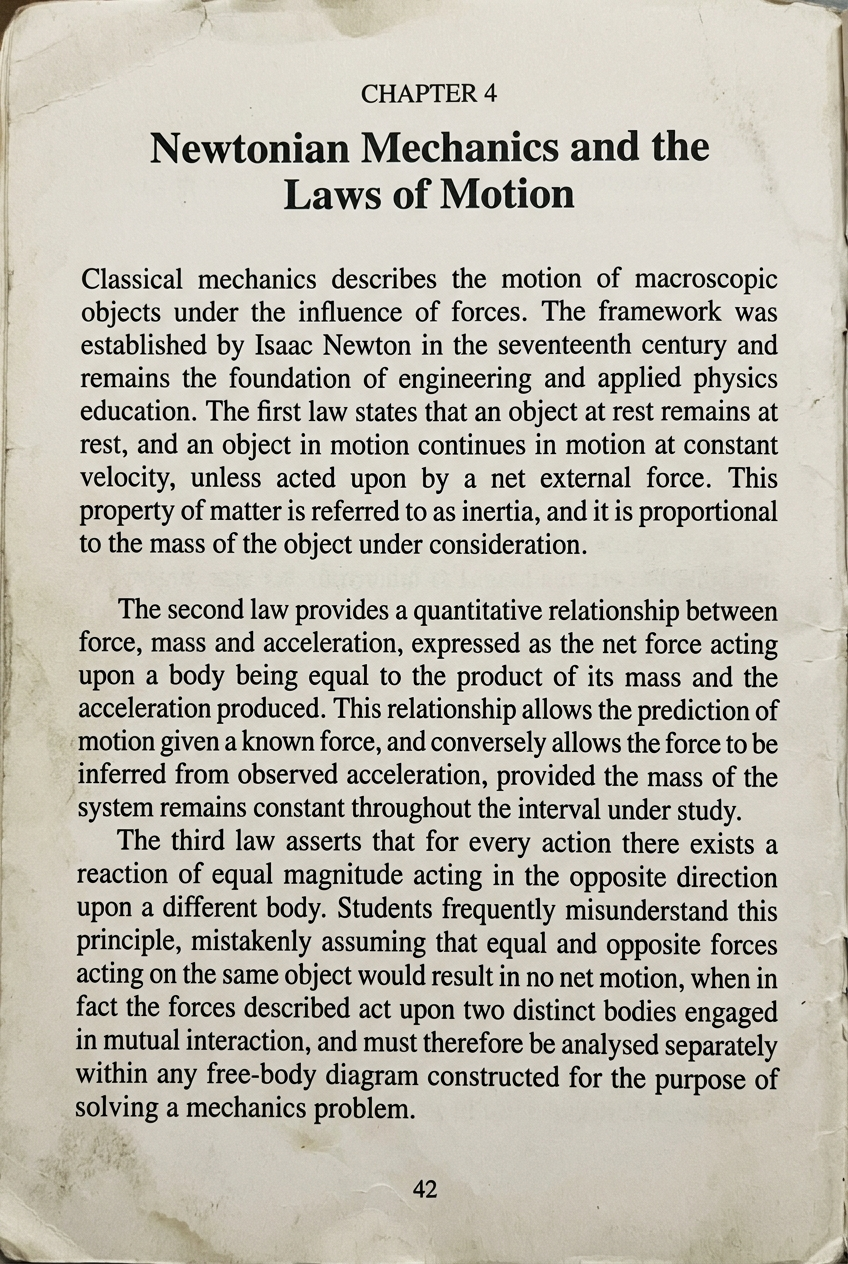
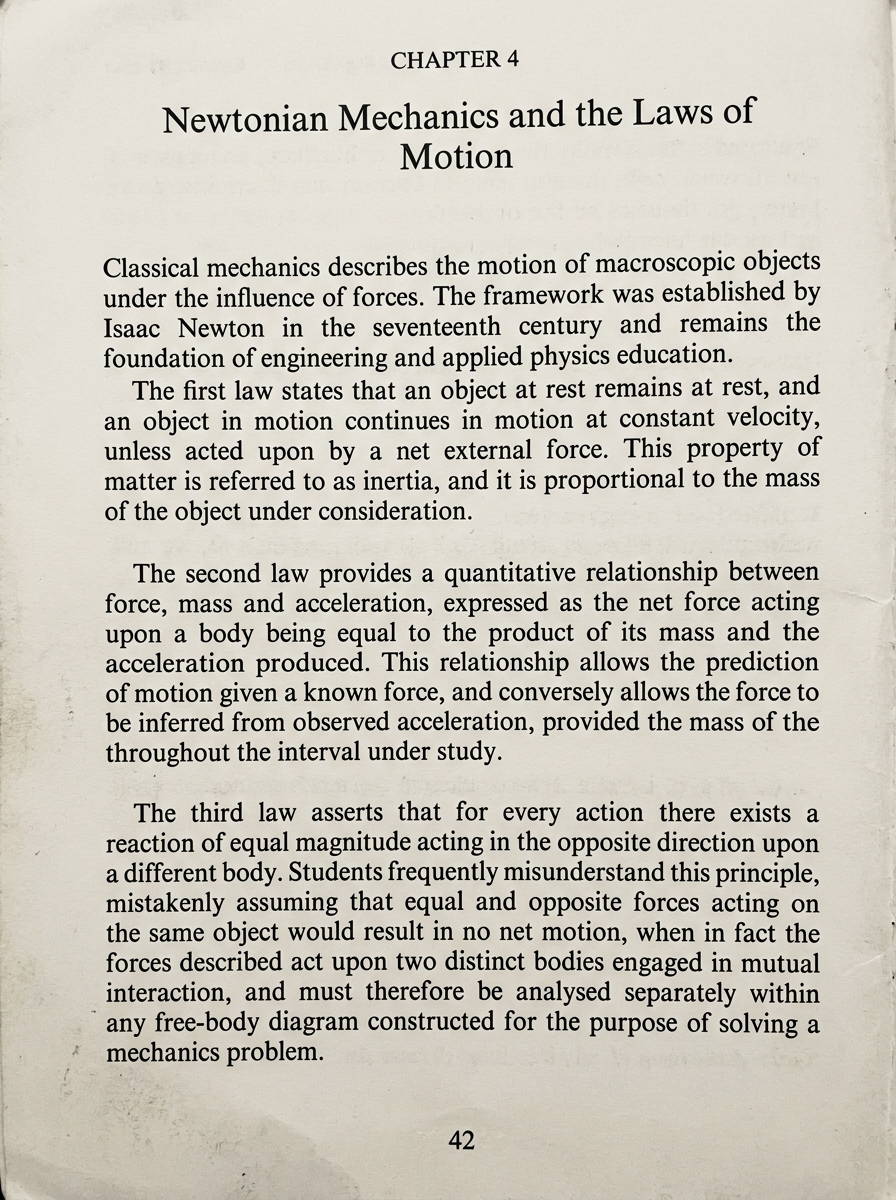
Fix character consistency, add kit-overview image, straighten comparison photo
- cover.jpg: regenerated using the established avatar (avatar-main.jpg) as
  a visual reference, so the cover character's face now matches the
  avatar used everywhere else on the site instead of drifting slightly
  from an independent text-only generation
- kit-overview.jpg: replaces the plain combo-mockup.svg placeholder in
  the 'Here's Exactly What You Get' section with a proper 3D product
  mockup (cover + fanned illustrated pages + bonus cards)
- bad-page.jpg: regenerated straight-on and centred with even margins
  (previous version was tilted with the page pushed off to one side)

diff --git a/index.html b/index.html
@@ -747,7 +747,7 @@
             <li>Formulas with no context</li>
             <li>Puts you to sleep</li>
           </ul>
-          <img src="./img/bad-page.jpg" alt="Traditional physics textbook page: dense text, no illustrations" width="848" height="1264" loading="lazy" decoding="async">
+          <img src="./img/bad-page.jpg" alt="Traditional physics textbook page: dense text, no illustrations" width="896" height="1200" loading="lazy" decoding="async">
         </div>
 
         <div class="comparison-card good-card">
@@ -885,7 +885,7 @@
       <h2 class="text-center">Here's Exactly What You Get:</h2>
 
       <div style="margin: 20px auto 28px;">
-        <img src="./img/combo-mockup.svg" alt="Physics Study Lab Kit: mockup with sample pages" width="1000" height="1300" loading="lazy" decoding="async" style="max-width: 420px; width: 100%; display: block; margin: 0 auto; border-radius: 12px;">
+        <img src="./img/kit-overview.jpg" alt="Physics Study Lab Kit: book cover, illustrated pages and bonus cards" width="848" height="1264" loading="lazy" decoding="async" style="max-width: 420px; width: 100%; display: block; margin: 0 auto; border-radius: 12px;">
       </div>
 
       <div class="topics-grid">
